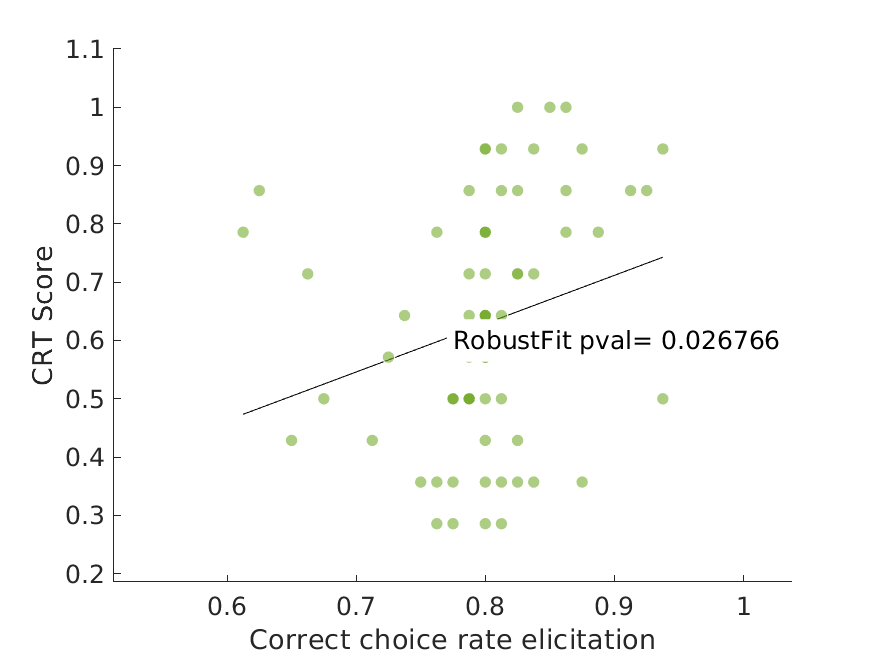
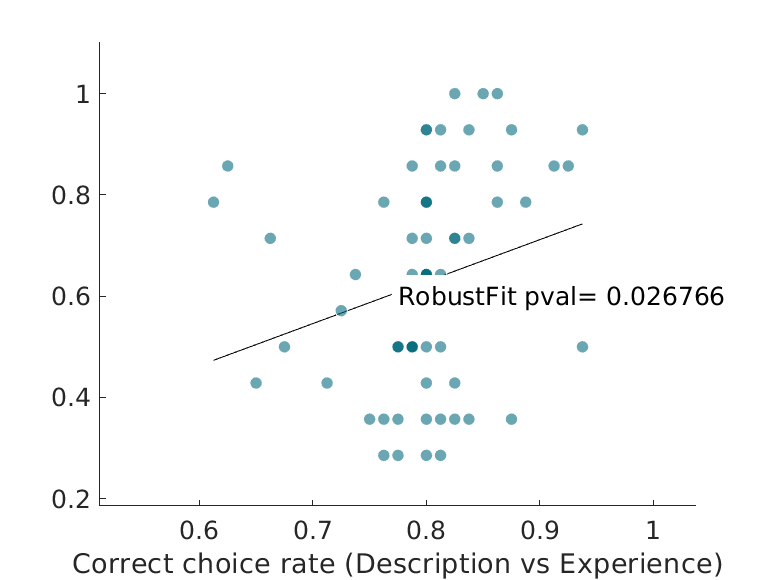
update

diff --git a/analyse_experiment.m b/analyse_experiment.m
@@ -16,7 +16,7 @@ rtime_threshold = 100000;
 catch_threshold = 1;
 n_best_sub = 0;
 allowed_nb_of_rows = [258, 288, 255, 285];
-displayfig = 'on';
+displayfig = 'off';
 colors = [0.3963    0.2461    0.3405;...
     1 0 0;...
     0.7875    0.1482    0.8380;...
@@ -25,6 +25,7 @@ colors = [0.3963    0.2461    0.3405;...
     0.7089    0.3476    0.0876;...
     0.2952    0.3013    0.3569;...
     0.1533    0.4964    0.2730];
+blue_color = [0.0274 0.427 0.494];
 
 %-----------------------------------------------------------------------
 
@@ -221,25 +222,25 @@ end
 %         'correct choice rate' ...
 %     );
 
-
-figure('Renderer', 'painters', 'Position', [326,296,1064,691], 'visible', displayfig)
-skylineplot(...
-    sampling_sum(:, :)', colors,...
-    -35, 35, 13, '' , 'Expected Utility',...
-    'outcome sum', ev...
-);
-yline(0, 'LineStyle', ':');
-saveas(gcf, sprintf('fig/exp/%s/average_outcome.png', name));
-
-
-figure('Renderer', 'painters', 'Position', [326,296,1064,691], 'visible', displayfig)
-skylinemedianplot(...
-    sampling_sum(:, :)', colors,...
-    -35, 35, 13, '' , 'Expected Utility',...
-    'outcome sum (median and quartiles)', ev...
-);
-yline(0, 'LineStyle', ':');
-saveas(gcf, sprintf('fig/exp/%s/median_outcome.png', name));
+% 
+% figure('Renderer', 'painters', 'Position', [326,296,1064,691], 'visible', displayfig)
+% skylineplot(...
+%     sampling_sum(:, :)', colors,...
+%     -35, 35, 13, '' , 'Expected Utility',...
+%     'outcome sum', ev...
+% );
+% yline(0, 'LineStyle', ':');
+% saveas(gcf, sprintf('fig/exp/%s/average_outcome.png', name));
+% 
+% 
+% figure('Renderer', 'painters', 'Position', [326,296,1064,691], 'visible', displayfig)
+% skylinemedianplot(...
+%     sampling_sum(:, :)', colors,...
+%     -35, 35, 13, '' , 'Expected Utility',...
+%     'outcome sum (median and quartiles)', ev...
+% );
+% yline(0, 'LineStyle', ':');
+% saveas(gcf, sprintf('fig/exp/%s/median_outcome.png', name));
 
 % ------------------------------------------------------------------------
 % Correlate corr choice rate vs quest
@@ -294,21 +295,23 @@ end
 % xlabel('Correct choice rate learning');
 % saveas(gcf, sprintf('fig/exp/%s/corr_learning_crt.png', name));
 % 
-% %------------------------------------------------------------------------
-% % ELICITATION PHASE
-% % -----------------------------------------------------------------------
-% figure('visible', displayfig)
+%------------------------------------------------------------------------
+% ELICITATION PHASE
+% -----------------------------------------------------------------------
+% figure('Position', [753,720,492,371], 'visible', displayfig)
 % scatterCorr(...
 %     corr_rate_elicitation',...
 %     crt_scores./14,...
-%     [0.4660    0.6740    0.1880],...
+%     blue_color,...
 %     0.6,...
 %     2,...
 %     2,...
 %     'w');
-% ylabel('CRT Score');
-% xlabel('Correct choice rate elicitation');
+% %ylabel('CRT Score');
+% xlabel('Correct choice rate (Description vs Experience)');
+% box off
 % saveas(gcf, sprintf('fig/exp/%s/corr_elicitation_crt.png', name));
+% return
 % 
 % %------------------------------------------------------------------------
 % % ELICITATION VS LEARNING 
@@ -464,13 +467,13 @@ for k = {1:nsub_divided, nsub_divided+1:nsub, 1:nsub}
         % [0.4660    0.6740    0.1880]
         lin3 = plot(...
             pcue,  pp(i, :),... %'bs', pcue, pp(i, :),  'b-', 'MarkerEdgeColor',...
-            'Color', [0.4660    0.6740    0.1880], 'LineWidth', 2 ...
+            'Color', blue_color, 'LineWidth', 2 ...
             );
         
         hold on
         sc1 = scatter(pcue, prop(i, :), 80,...
             'MarkerEdgeColor', 'w',...
-            'MarkerFaceColor', [0.4660    0.6740    0.1880]);
+            'MarkerFaceColor', blue_color);
         s.MarkerFaceAlpha = 0.5;
         
         hold on 
@@ -478,10 +481,10 @@ for k = {1:nsub_divided, nsub_divided+1:nsub, 1:nsub}
         sc2 = scatter(ind_point, 0.5, 100, 'MarkerFaceColor', 'r', 'MarkerEdgeColor', 'w');
        
         if mod(i, 2) ~= 0 || ismember(i, [1, 2])
-            ylabel('P(choose learnt value)', 'FontSize', 14);
+            ylabel('P(choose learnt value)', 'FontSize', 25);
         end
         if ismember(i, [7, 8]) || ismember(i, [2])
-            xlabel('Described cue win probability', 'FontSize', 14);
+            xlabel('Described cue win probability', 'FontSize', 25);
         end
        
         if i < 6
